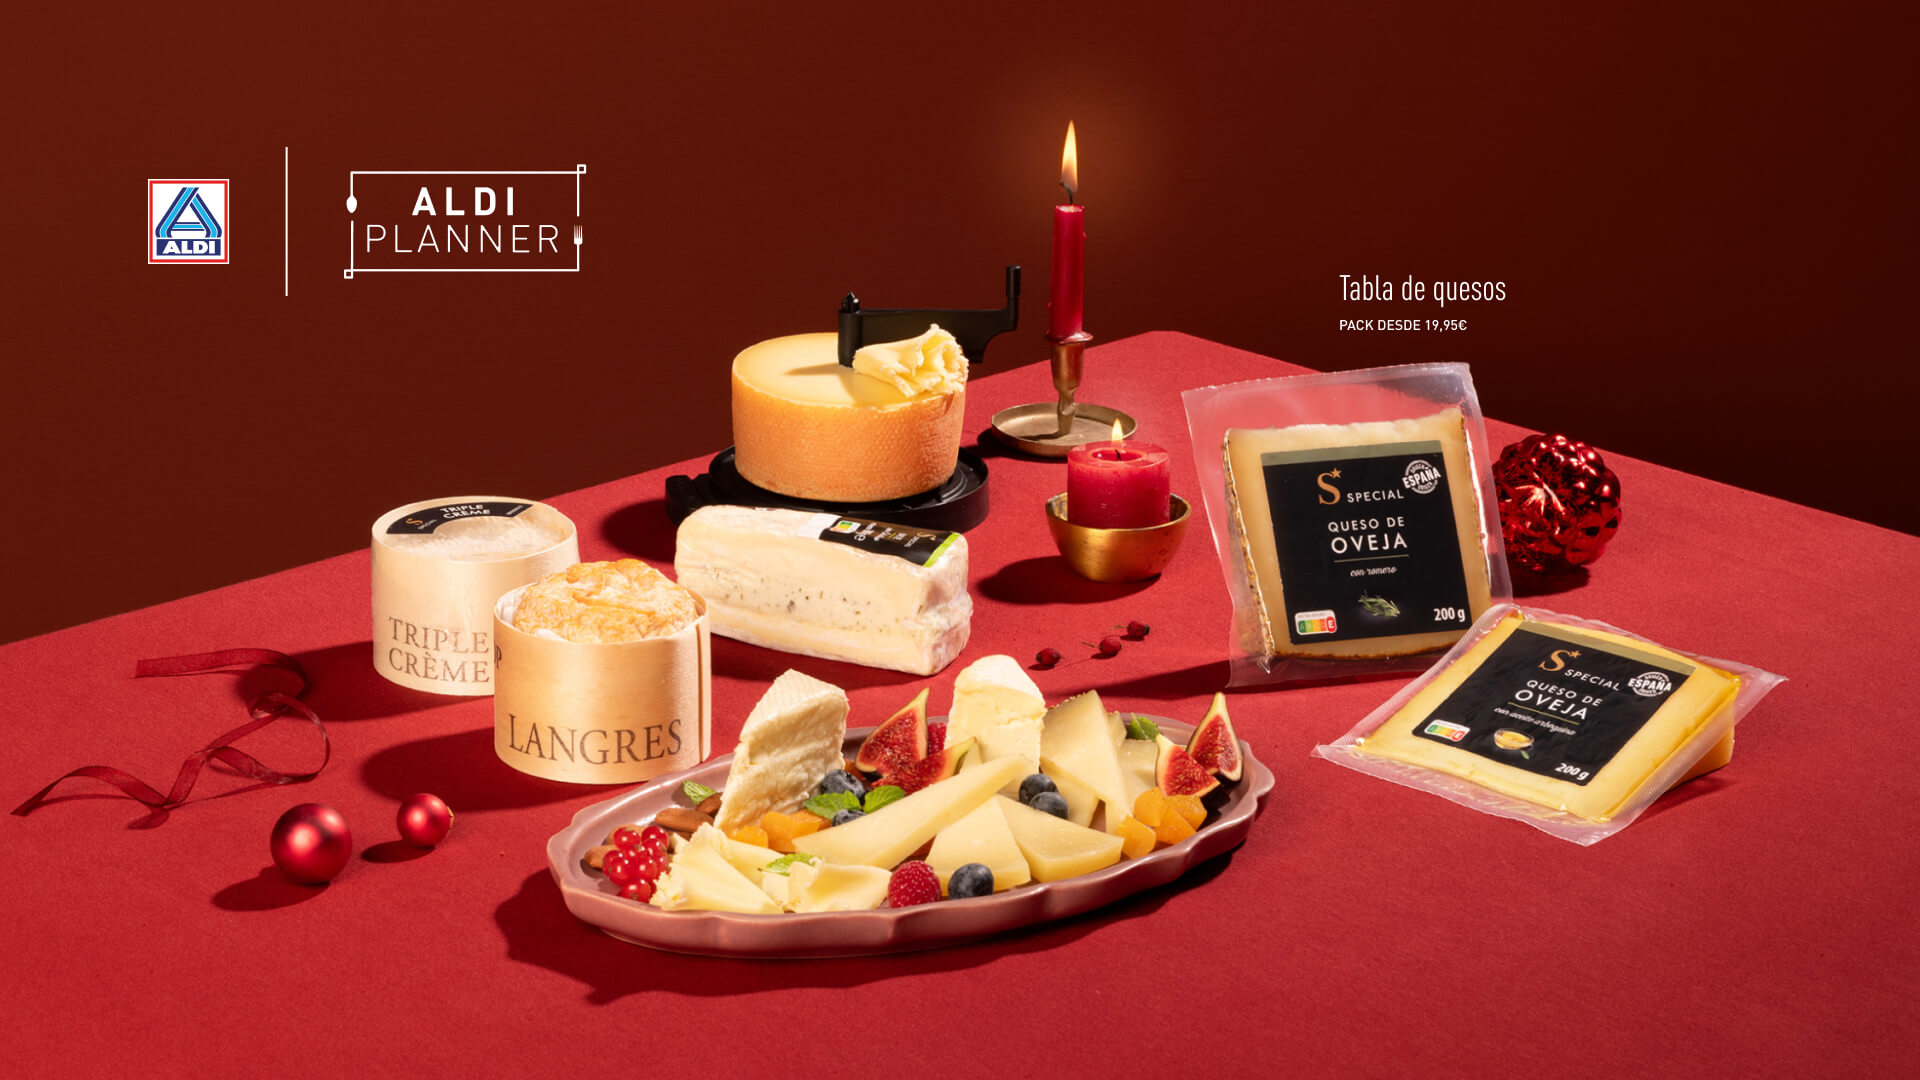
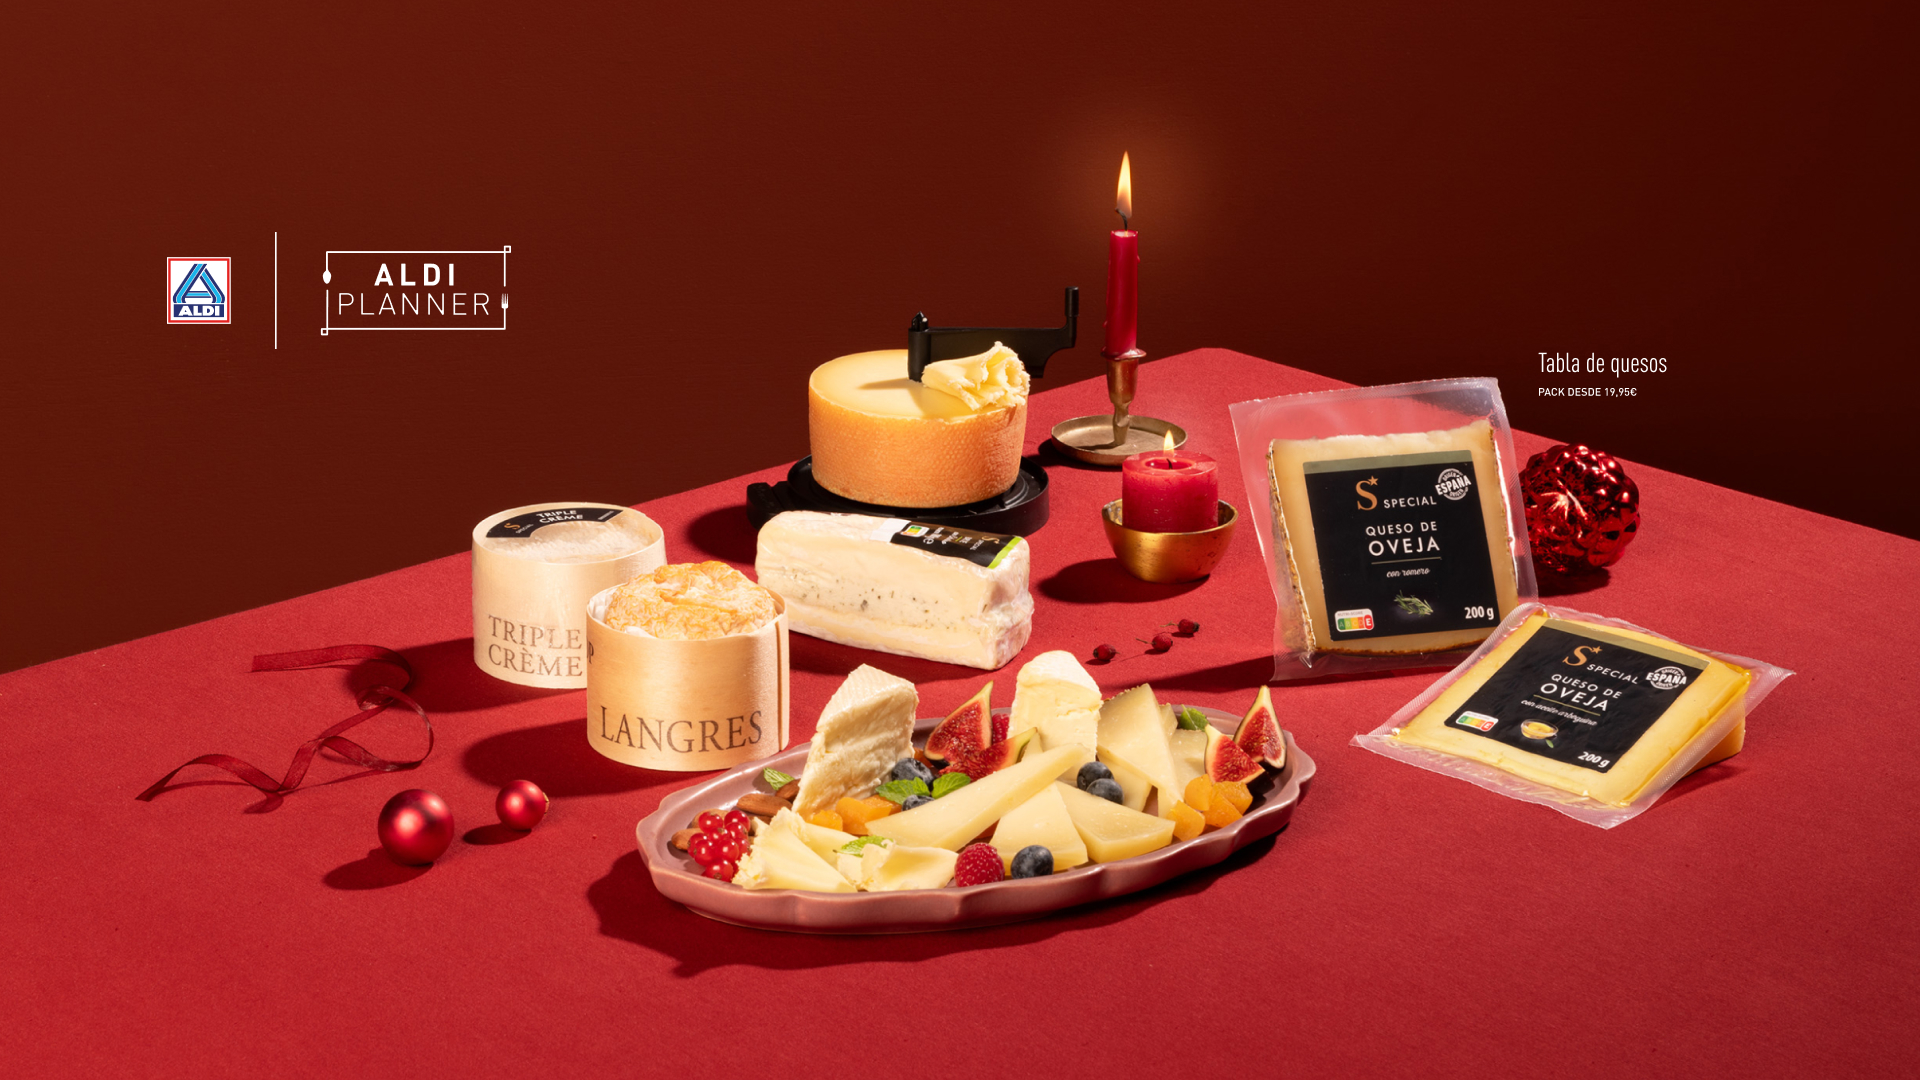
ALDI Planner: nueva imagen de cabecera

diff --git a/aldiplanner.html b/aldiplanner.html
@@ -160,7 +160,7 @@
 </div>
 <div class="change-header-color" id="hero-image-wrapper">
 <div class="parallax-scroll-image" id="hero-background-layer">
-<div id="hero-bg-image" style="background-image:url(images/aldiplanner/header_aldi_planner.jpg)">
+<div id="hero-bg-image" style="background-image:url(images/aldiplanner/header_aldi_planner.jpg?v=2)">
 </div>
 </div>
 </div>
